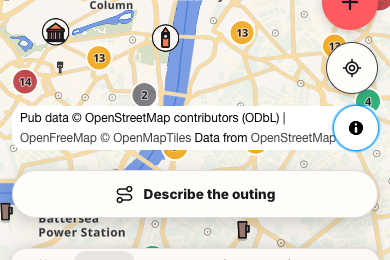
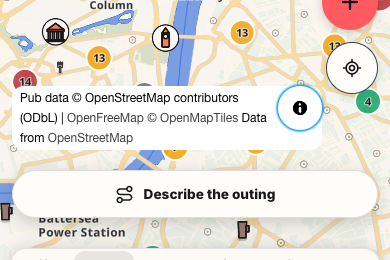
no-mistakes(review): Keep phone credit text and Near me clear

Changed region(s): [[0.0308, 0.3077, 0.9846, 0.5846]]

diff --git a/e2e/mobile-map-chrome-fit.spec.ts b/e2e/mobile-map-chrome-fit.spec.ts
@@ -937,6 +937,32 @@ const REQUIRED_MEMBERS = [
   "locate FAB",
 ] as const;
 
+async function seedAnsweredConsentAndPal(page: Page): Promise<void> {
+  await page.addInitScript(() => {
+    window.localStorage.setItem("pubmaxx:analytics-consent:v1", "denied");
+    window.localStorage.setItem("pubmax:e2e-defer-shell:v1", "now");
+    const now = "2026-01-01T00:00:00.000Z";
+    window.localStorage.setItem(
+      "pubmax_pub_pal_v1",
+      JSON.stringify({
+        id: "pal-e2e",
+        ownerId: "owner-e2e",
+        name: "Ada",
+        adultAttestedAt: now,
+        appearance: {},
+        personality: {},
+        voice: {},
+        muted: false,
+        hidden: false,
+        proposalPreferences: {},
+        masteryPoints: 0,
+        createdAt: now,
+        updatedAt: now,
+      }),
+    );
+  });
+}
+
 function overlaps(a: Rect, b: Rect): boolean {
   return (
     a.left < b.right && b.left < a.right && a.top < b.bottom && b.top < a.bottom
@@ -947,34 +973,12 @@ for (const viewport of VIEWPORTS) {
   test(`${viewport.width}px right-edge floating controls never overlap`, async ({
     page,
   }) => {
-    await page.addInitScript(() => {
-      // Consent is ANSWERED on purpose. Leaving it undecided renders
-      // AnalyticsConsentPrompt, which lifts the map-edge column to its own
-      // higher berth - the one berth where the collision this test exists for
-      // cannot happen - and whether it renders at all depends on a prompt
-      // budget, so an undecided seed is nondeterministic as well as blind.
-      window.localStorage.setItem("pubmaxx:analytics-consent:v1", "denied");
-      window.localStorage.setItem("pubmax:e2e-defer-shell:v1", "now");
-      const now = "2026-01-01T00:00:00.000Z";
-      window.localStorage.setItem(
-        "pubmax_pub_pal_v1",
-        JSON.stringify({
-          id: "pal-e2e",
-          ownerId: "owner-e2e",
-          name: "Ada",
-          adultAttestedAt: now,
-          appearance: {},
-          personality: {},
-          voice: {},
-          muted: false,
-          hidden: false,
-          proposalPreferences: {},
-          masteryPoints: 0,
-          createdAt: now,
-          updatedAt: now,
-        }),
-      );
-    });
+    // Consent is ANSWERED on purpose. Leaving it undecided renders
+    // AnalyticsConsentPrompt, which lifts the map-edge column to its own
+    // higher berth - the one berth where the collision this test exists for
+    // cannot happen - and whether it renders at all depends on a prompt
+    // budget, so an undecided seed is nondeterministic as well as blind.
+    await seedAnsweredConsentAndPal(page);
     await openPhoneMap(page, viewport);
     // The pill is stored-pal gated and mounts after a microtask.
     await expect(page.locator(".palSummon")).toBeVisible({ timeout: 30_000 });
@@ -1045,6 +1049,112 @@ for (const viewport of VIEWPORTS) {
       Math.round(bar!.y) - Math.round(plan.rect.bottom),
       "the plan pill keeps a real gap above the tab bar",
     ).toBeGreaterThanOrEqual(10);
+  });
+}
+
+// The OpenStreetMap credit shares the band above the plan pill with the Pub
+// Pal pill. Closed, it is a 44px control beside the pill that owns its own
+// tap. Open, its text runs across that band, so the pill stands down, no word
+// may sit under the 44px collapse button at its right edge, and it stays out of
+// the Near me lane.
+for (const viewport of VIEWPORTS) {
+  test(`${viewport.width}px the map credit owns its taps beside the Pub Pal pill`, async ({
+    page,
+  }) => {
+    await seedAnsweredConsentAndPal(page);
+    await openPhoneMap(page, viewport);
+    const pal = page.locator(".palSummon");
+    await expect(pal).toBeVisible({ timeout: 30_000 });
+    const credit = page.locator(".appShell .mapStage .maplibregl-ctrl-attrib");
+    const toggle = credit.locator(".maplibregl-ctrl-attrib-button");
+    await expect(toggle).toBeVisible();
+
+    const closed = await toggle.evaluate((button) => {
+      const box = button.getBoundingClientRect();
+      const pill = document.querySelector(".palSummon")!.getBoundingClientRect();
+      const hit = document.elementFromPoint(
+        box.left + box.width / 2,
+        box.top + box.height / 2,
+      );
+      return {
+        box: box.toJSON() as Rect,
+        pill: pill.toJSON() as Rect,
+        ownsCentre: button.contains(hit),
+      };
+    });
+    expect(closed.box.width, "the closed credit keeps the tap floor").toBeGreaterThanOrEqual(44);
+    expect(closed.box.height, "the closed credit keeps the tap floor").toBeGreaterThanOrEqual(44);
+    expect(closed.ownsCentre, "the closed credit owns its centre").toBe(true);
+    expect(
+      overlaps(closed.box, closed.pill),
+      `credit ${JSON.stringify(closed.box)} overlaps the Pub Pal pill ${JSON.stringify(closed.pill)}`,
+    ).toBe(false);
+
+    await toggle.click();
+    await expect(credit).toHaveClass(/maplibregl-compact-show/);
+    await expect(pal).toBeHidden();
+    // Even reduced motion keeps a near-zero transition, so read the open
+    // credit's geometry only once it has landed.
+    await expect
+      .poll(() => credit.evaluate((control) => control.getAnimations().length))
+      .toBe(0);
+
+    const open = await credit.evaluate((control) => {
+      const button = control.querySelector(".maplibregl-ctrl-attrib-button")!;
+      const buttonBox = button.getBoundingClientRect();
+      const range = document.createRange();
+      range.selectNodeContents(control.querySelector(".maplibregl-ctrl-attrib-inner")!);
+      const underButton = Array.from(range.getClientRects())
+        .filter((line) => line.width > 0 && line.height > 0)
+        .filter(
+          (line) =>
+            line.left < buttonBox.right &&
+            buttonBox.left < line.right &&
+            line.top < buttonBox.bottom &&
+            buttonBox.top < line.bottom,
+        )
+        .map((line) => line.toJSON());
+      const links = Array.from(control.querySelectorAll<HTMLAnchorElement>("a")).map(
+        (link) => {
+          const line = link.getClientRects()[0]!;
+          const hit = document.elementFromPoint(
+            line.left + line.width / 2,
+            line.top + line.height / 2,
+          );
+          return { text: link.textContent, ownsCentre: link.contains(hit) };
+        },
+      );
+      const hit = document.elementFromPoint(
+        buttonBox.left + buttonBox.width / 2,
+        buttonBox.top + buttonBox.height / 2,
+      );
+      return {
+        box: control.getBoundingClientRect().toJSON() as Rect,
+        locate: document.querySelector(".mobileMapLocateFab")!.getBoundingClientRect().toJSON() as Rect,
+        button: buttonBox.toJSON() as Rect,
+        buttonOwnsCentre: button.contains(hit),
+        underButton,
+        links,
+      };
+    });
+    expect(open.underButton, "no credit text sits under the collapse button").toEqual([]);
+    expect(open.links.length, "the open credit shows its links").toBeGreaterThan(0);
+    expect(
+      open.links.filter((link) => !link.ownsCentre),
+      "every credit link owns its centre",
+    ).toEqual([]);
+    expect(open.button.width, "the collapse button keeps the tap floor").toBeGreaterThanOrEqual(44);
+    expect(open.buttonOwnsCentre, "the collapse button owns its centre").toBe(true);
+    expect(open.box.left).toBeGreaterThanOrEqual(0);
+    expect(open.box.right).toBeLessThanOrEqual(viewport.width);
+    expect(
+      overlaps(open.box, open.locate),
+      `open credit ${JSON.stringify(open.box)} overlaps Near me ${JSON.stringify(open.locate)}`,
+    ).toBe(false);
+
+    await toggle.click();
+    await expect(credit).not.toHaveClass(/maplibregl-compact-show/);
+    await expect(pal).toBeVisible();
   });
 }
 

diff --git a/components/mobile/mobileMapShell.css b/components/mobile/mobileMapShell.css
@@ -42,9 +42,9 @@
     );
     --mobile-map-stack-left: 12px;
     --mobile-map-stack-right: 12px;
-    /* The collapsed OpenStreetMap credit's 44px circle (below) at the left of
-       the band above the plan pill. The Pub Pal pill in that band starts
-       beside it (pubPal.css). */
+    /* The collapsed OpenStreetMap credit at the left of the band above the
+       plan pill, and its collapse button once open. The Pub Pal pill in that
+       band starts beside it (pubPal.css). */
     --mobile-map-credit-size: 44px;
   }
 
@@ -167,6 +167,15 @@
     max-width: calc(100vw - 24px);
   }
 
+  /* OPEN, the collapse button keeps its 44px at the right edge, and MapLibre
+     reserves only 28px for its own 24px button, so the last words ran under it.
+     The open credit also stops short of the map-edge lane, where it ran onto
+     Near me at 320px. */
+  .appShell .mapStage .maplibregl-ctrl-attrib.maplibregl-compact-show {
+    max-width: calc(100vw - var(--mobile-map-stack-left) - var(--mobile-map-corner-lane));
+    padding-right: calc(var(--mobile-map-credit-size) + 4px);
+  }
+
   .appShell .mapStage .maplibregl-ctrl-attrib-inner {
     max-width: 100%;
     overflow-wrap: normal;
@@ -182,9 +191,9 @@
     .maplibregl-ctrl-attrib.maplibregl-compact:not(.maplibregl-compact-show) {
     display: grid;
     place-items: center;
-    width: 44px;
-    height: 44px;
-    min-height: 44px;
+    width: var(--mobile-map-credit-size);
+    height: var(--mobile-map-credit-size);
+    min-height: var(--mobile-map-credit-size);
     padding: 0;
     border: 1px solid var(--ink-soft);
     border-radius: 50%;
@@ -196,10 +205,10 @@
     display: inline-flex;
     align-items: center;
     justify-content: center;
-    width: 44px;
-    height: 44px;
-    min-width: 44px;
-    min-height: 44px;
+    width: var(--mobile-map-credit-size);
+    height: var(--mobile-map-credit-size);
+    min-width: var(--mobile-map-credit-size);
+    min-height: var(--mobile-map-credit-size);
     box-sizing: border-box;
     /* The glyph is a 24px background SVG and MapLibre never constrains its
        repeat, because its own button is 24px too. Raising the button to the

diff --git a/__tests__/mapAttributionControl.test.ts b/__tests__/mapAttributionControl.test.ts
@@ -40,11 +40,6 @@ function ruleFor(selector: string): string {
 describe("the attribution glyph is drawn once", () => {
   const button = ruleFor(".appShell .mapStage .maplibregl-ctrl-attrib-button");
 
-  it("keeps the 44px tap floor", () => {
-    expect(button).toContain("min-width: 44px;");
-    expect(button).toContain("min-height: 44px;");
-  });
-
   it("stops the 24px glyph tiling across it", () => {
     expect(button).toContain("background-repeat: no-repeat;");
     expect(button).toContain("background-position: center;");
@@ -57,9 +52,7 @@ describe("the collapsed credit takes this lane's own shape", () => {
     ".maplibregl-ctrl-attrib.maplibregl-compact:not(.maplibregl-compact-show)",
   );
 
-  it("is a 44px circle on the raised surface, like the compass beside it", () => {
-    expect(control).toContain("width: 44px;");
-    expect(control).toContain("height: 44px;");
+  it("is a circle on the raised surface, like the compass beside it", () => {
     expect(control).toContain("border-radius: 50%;");
     expect(control).toContain("background: var(--color-surface-raised);");
   });

diff --git a/docs/proof/skills-packages-2026-10-07/README.md b/docs/proof/skills-packages-2026-10-07/README.md
@@ -21,13 +21,13 @@ Computer Use checked pubmaxxing.com at desktop 1440 × 900 and mobile 390 × 844
 
 A desktop Pub Pal shortcut covered the venue drawer's Share action. A DOM hit check at Share's center returned the Pal link. The CSS change hides the floating shortcut only while the desktop right venue drawer is open. The left planner and landmark story drawers sit on the opposite edge and keep the shortcut. Local Computer Use verification confirmed that Share receives its center-point hit, the shortcut is hidden while the drawer is open, and it returns after the drawer closes and map banner staging permits it.
 
-A later production-build check found the attribution button clipping the shortcut's lower corner. A first fix at bottom 42px still covered the Layers button and, with the consent strip shown, the attribution button and the strip. The same check found two older attribution collisions. At 641 without the strip, expanded attribution wraps to two lines and the Layers button covered its collapse button. At 390 the phone shortcut covered the collapsed OpenStreetMap credit once the plan pill mounted, so a tap on the credit opened Pub Pal.
+A later production-build check found the attribution button clipping the shortcut's lower corner. A first fix at bottom 42px still covered the Layers button and, with the consent strip shown, the attribution button and the strip. The same check found two older attribution collisions. At 641 without the strip, expanded attribution wraps to two lines and the Layers button covered its collapse button. At 390 the phone shortcut covered the collapsed OpenStreetMap credit once the plan pill mounted, so a tap on the credit opened Pub Pal. Once open, the phone credit ran its last words under its 44px collapse button, because MapLibre reserves 28px for its own 24px button. At 320 the open credit also ran 8px onto Near me.
 
-The desktop map now publishes one Layers berth in `app/globals.css`. Layers sits 54px up, which clears two-line expanded attribution and its 10px margin. With the consent strip it sits at the consent clearance plus 54px. The shortcut reads the same berth and sits 8px above the 44px Layers button. It hides while the Layers panel is open, because the panel rises through that space. Other desktop routes retain the 22px position. On the phone map the shortcut starts one gap to the right of the 44px credit, and it hides while the credit is expanded across that band. The plan pill, Near me and create positions are unchanged.
+The desktop map now publishes one Layers berth in `app/globals.css`. Layers sits 54px up, which clears two-line expanded attribution and its 10px margin. With the consent strip it sits at the consent clearance plus 54px. The shortcut reads the same berth and sits 8px above the 44px Layers button. It hides while the Layers panel is open, because the panel rises through that space. Other desktop routes retain the 22px position. On the phone map the credit and the shortcut read one published credit size. The shortcut starts one gap to the right of the credit, and it hides while the credit is expanded across that band. The open credit reserves the collapse button's 44px plus 4px at its right edge and stops short of the map-edge lane. The plan pill, Near me and create positions are unchanged.
 
 A fresh production build was measured with a saved Pub Pal at 641, 1144 and 1440 × 900 and at 390 × 844. At every desktop width the shortcut spans y 742-794 above Layers at 802-846 and attribution at 866-890. With the consent strip it spans y 670-722 above Layers at 730-774, attribution at 794-818 and the strip at 844-900. A point hit at the center of the shortcut, Layers and the attribution button reached that control at all three widths, in both states, with attribution collapsed and expanded. At 641 the expanded attribution's collapse button now receives its own hit. At 1144 and 1440 the shortcut stays clear and tappable beside the left planner and story drawers. At 641 both left drawers are full-width sheets that sit above the shortcut, as before. At all three widths the shortcut returns when the right venue drawer closes, and Share receives its own center-point hit.
 
-At 390, with and without the consent strip, the credit spans x 12-56 and the shortcut x 68-314 on the same row. A tap on the credit expands it, and its first link receives its own hit. A second tap collapses it and the shortcut returns.
+At 390, with and without the consent strip, the credit spans x 12-56 and the shortcut x 68-314 on the same row. Open, the credit spans x 12-322 and y 626-690, with its collapse button at x 278-322. No line of text sits under that button, and Near me at x 326-378 stays clear. At 320 the credit spans x 12-56 beside the shortcut at x 68-244. Open, it spans x 12-252 and y 330-414, clear of Near me at x 256-308, y 306-358. At both widths a tap on the credit opens it, its links receive their own hits, and a second tap closes it and the shortcut returns. `e2e/mobile-map-chrome-fit.spec.ts` now renders this at 320, 390 and 430: the 44px tap floor, the centre hits, every link, no text under the button, and Near me kept clear.
 
 ![Desktop map corner before, with the shortcut over Layers](desktop-corner-noconsent-before.png)
 
@@ -47,7 +47,11 @@ At 390, with and without the consent strip, the credit spans x 12-56 and the sho
 
 ![Phone map before, with the shortcut over the expanded credit](phone-credit-expanded-before.png)
 
-![Phone map after, with the expanded credit clear](phone-credit-expanded-after.png)
+![Phone map after, with the expanded credit clear of the shortcut and its collapse button](phone-credit-expanded-after.png)
+
+![Open credit at 320 before, with text under the collapse button and the credit on Near me](phone-320-credit-expanded-before.png)
+
+![Open credit at 320 after, with the text and Near me clear](phone-320-credit-expanded-after.png)
 
 ![Production desktop Share action covered by Nova](desktop-share-before.png)
 
